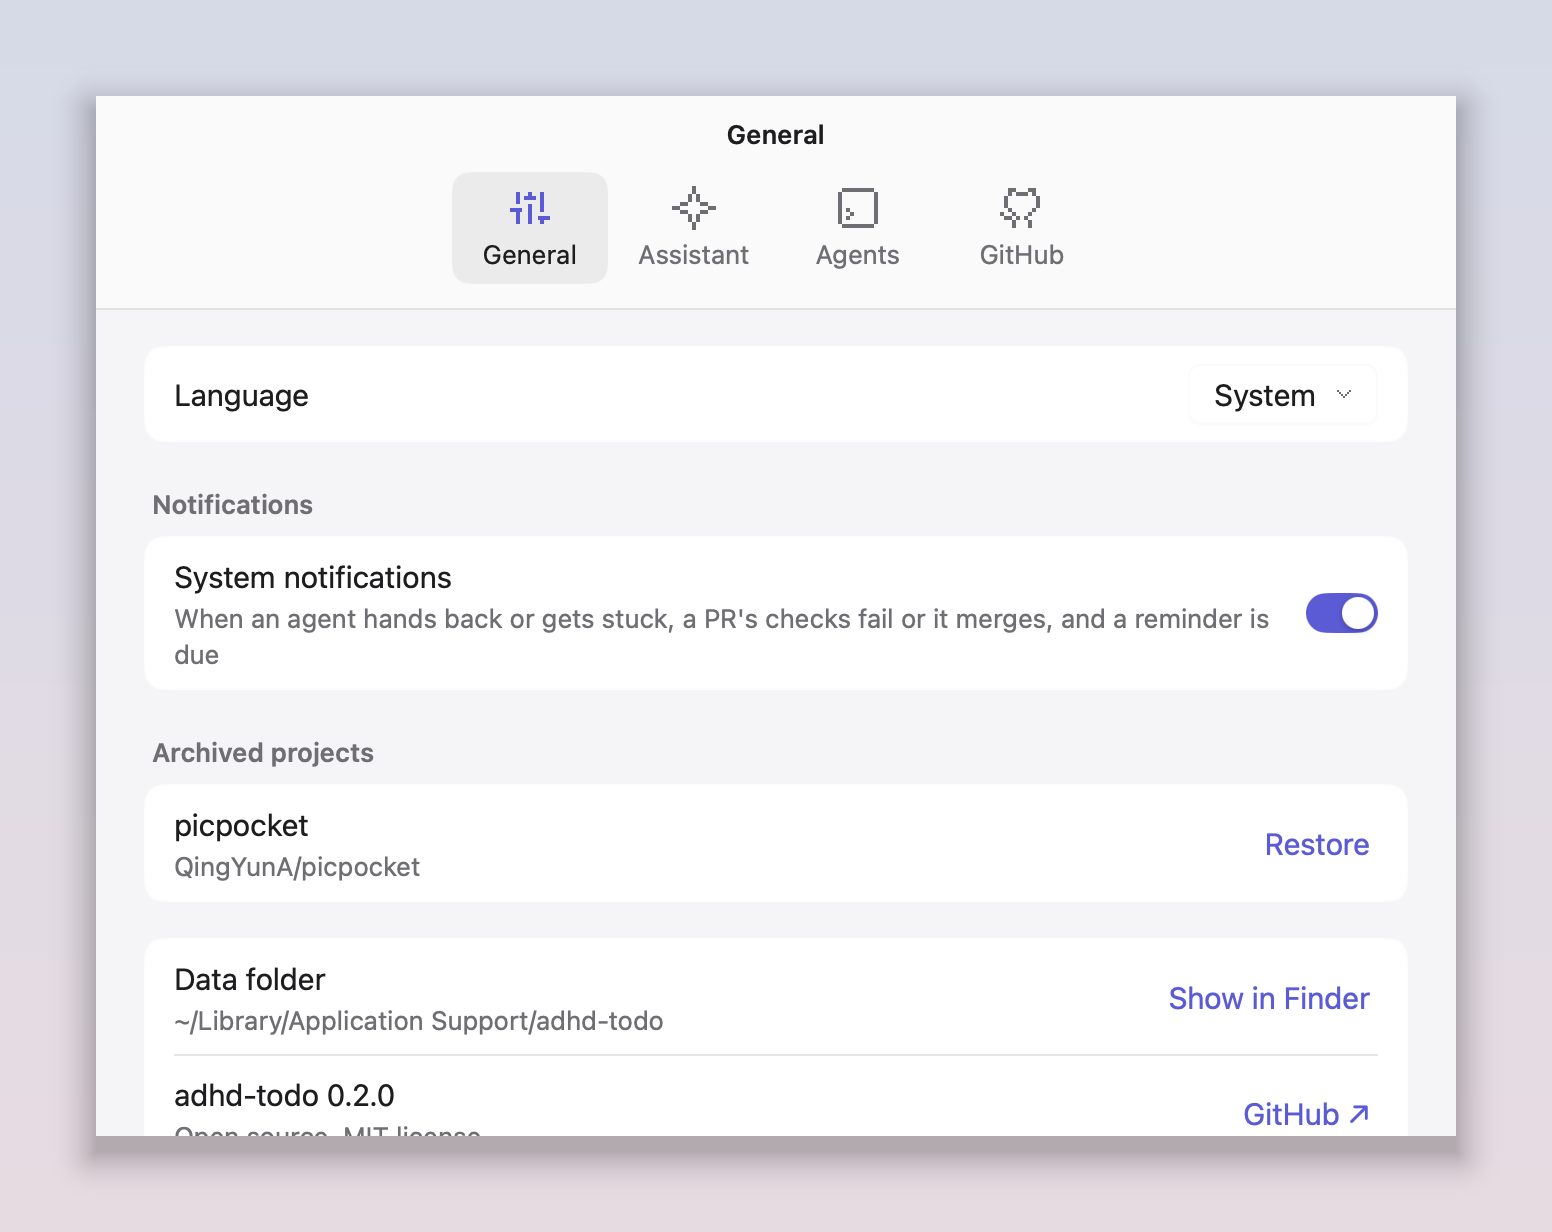
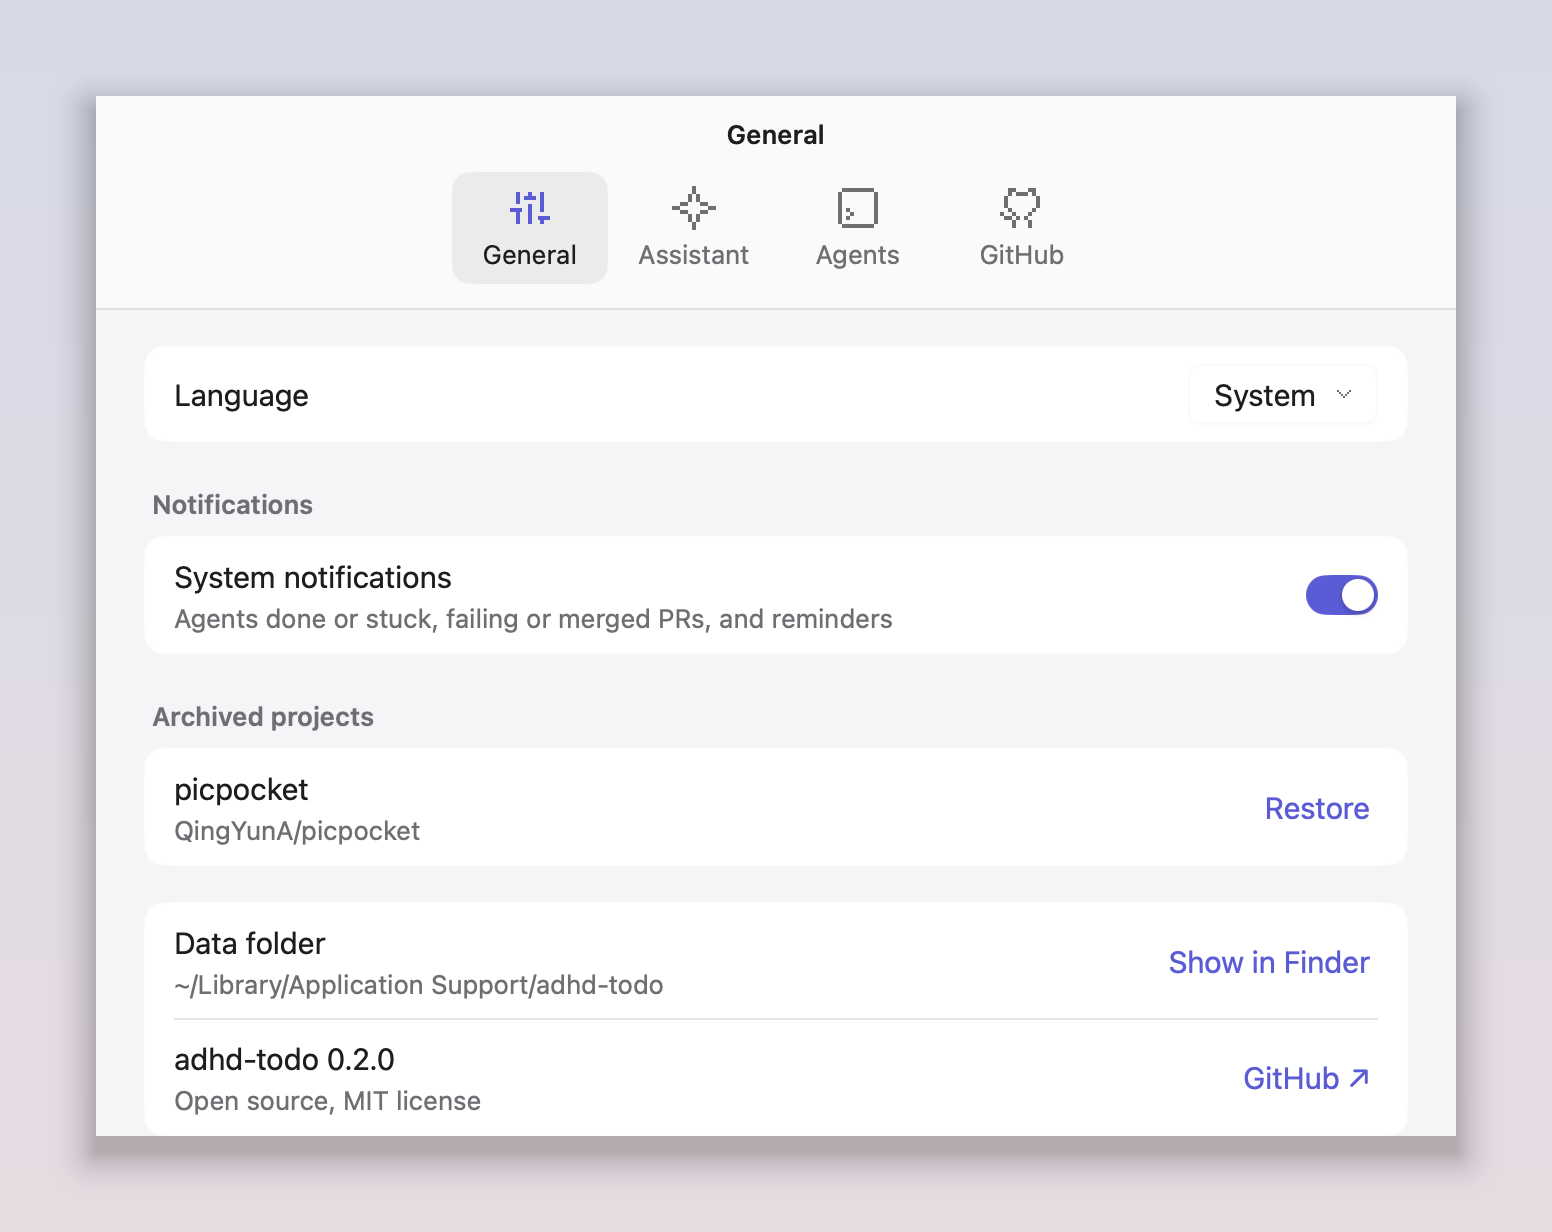
fix(app): a shorter line under the notifications switch

diff --git a/app/views/notify_test.go b/app/views/notify_test.go
@@ -10,7 +10,7 @@ import (
 func TestGeneralPaneHasTheNotificationsSwitchOnByDefault(t *testing.T) {
 	r := newSettingsRig(t)
 	has(t, r.tt, "Notifications", "System notifications",
-		"When an agent hands back or gets stuck, a PR's checks fail or it merges, and a reminder is due")
+		"Agents done or stuck, failing or merged PRs, and reminders")
 	hasNot(t, r.tt, "macOS does not allow adhd-todo to notify", "Open System Settings ↗")
 	if !r.app.Notifications() {
 		t.Error("notifications should be on until the user switches them off")
@@ -58,7 +58,7 @@ func TestSwitchingNotificationsKeepsTheOtherPrefs(t *testing.T) {
 func TestWhenMacOSRefusedTheLineWarnsAndALinkOpensSystemSettings(t *testing.T) {
 	r := newSettingsRig(t, func(a *App) { a.Act.(*recorder).denied = true })
 	has(t, r.tt, "System notifications", "macOS does not allow adhd-todo to notify", "Open System Settings ↗")
-	hasNot(t, r.tt, "When an agent hands back or gets stuck, a PR's checks fail or it merges, and a reminder is due")
+	hasNot(t, r.tt, "Agents done or stuck, failing or merged PRs, and reminders")
 	if err := r.tt.Click("Open System Settings ↗"); err != nil {
 		t.Fatal(err)
 	}

diff --git a/app/locales/catalog_gen.go b/app/locales/catalog_gen.go
@@ -3120,13 +3120,13 @@ func (msgs Messages) SettingsNotifyTitle() string {
 	return Catalog.Format(msgs.locale, "settingsNotifyTitle", nil)
 }
 
-// SettingsNotifyMeta says "When an agent hands back or gets stuck, a PR's checks fail or it merges, and a reminder is due"
+// SettingsNotifyMeta says "Agents done or stuck, failing or merged PRs, and reminders"
 // in the language the app shows.
 //
 // Quiet line under the system notifications switch.
 func SettingsNotifyMeta() string { return In(i18n.Locale()).SettingsNotifyMeta() }
 
-// SettingsNotifyMeta says "When an agent hands back or gets stuck, a PR's checks fail or it merges, and a reminder is due"
+// SettingsNotifyMeta says "Agents done or stuck, failing or merged PRs, and reminders"
 // in the language of msgs.
 //
 // Quiet line under the system notifications switch.

diff --git a/docs/design/ui-spec.md b/docs/design/ui-spec.md
@@ -1026,8 +1026,8 @@ the flicker). Each pane has its own scroll key. Reference: `v4.html` frames 5 to
   optional `meta` line left, the control right; hairlines between rows; an optional group label
   above the block in `section` style (13 / 18, 600, `text.secondary`).
 - **General**: Language (a pop-up: System / English / 简体中文); **Notifications** (v12): a group of one
-  row, **System notifications** (`系统通知`) with the `meta` line `When an agent hands back or gets stuck,
-  a PR's checks fail or it merges, and a reminder is due` (`Agent 交回或卡住、PR 检查没过或合并、提醒到点时通知你`)
+  row, **System notifications** (`系统通知`) with the `meta` line `Agents done or stuck, failing or merged
+  PRs, and reminders` (`Agent 交回或卡住、PR 检查没过或合并、提醒到点时通知你`)
   and a switch at the right, on by default. When the last notification was refused by macOS
   (`mygo.ErrNotificationsDenied`) the `meta` line reads, in `stale`, `macOS does not allow adhd-todo to
   notify` (`macOS 不允许 adhd-todo 发通知，开关不起作用`) and an **Open System Settings ↗** link
